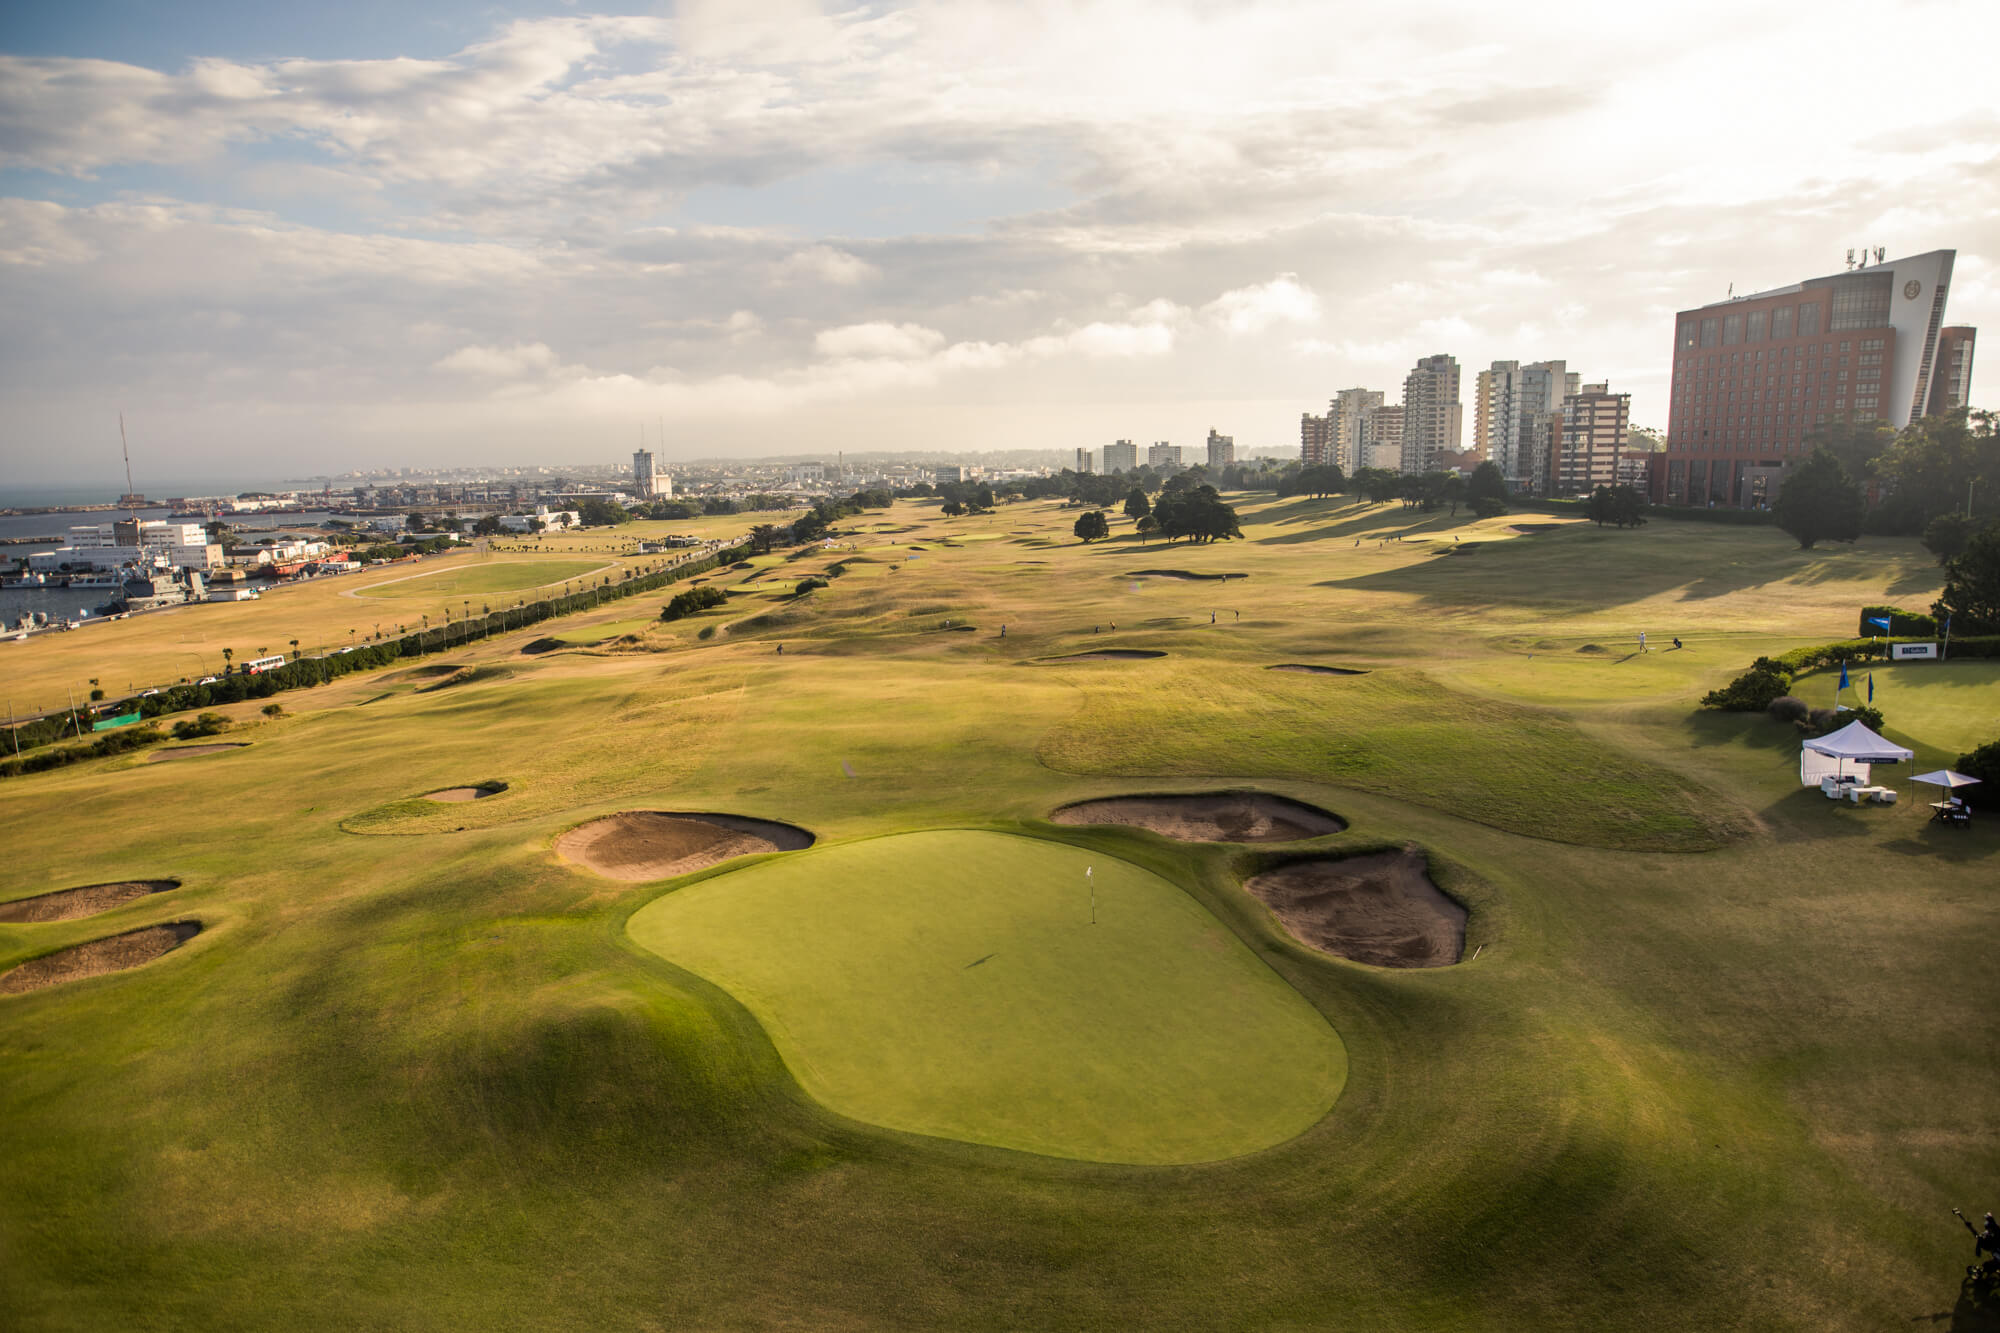
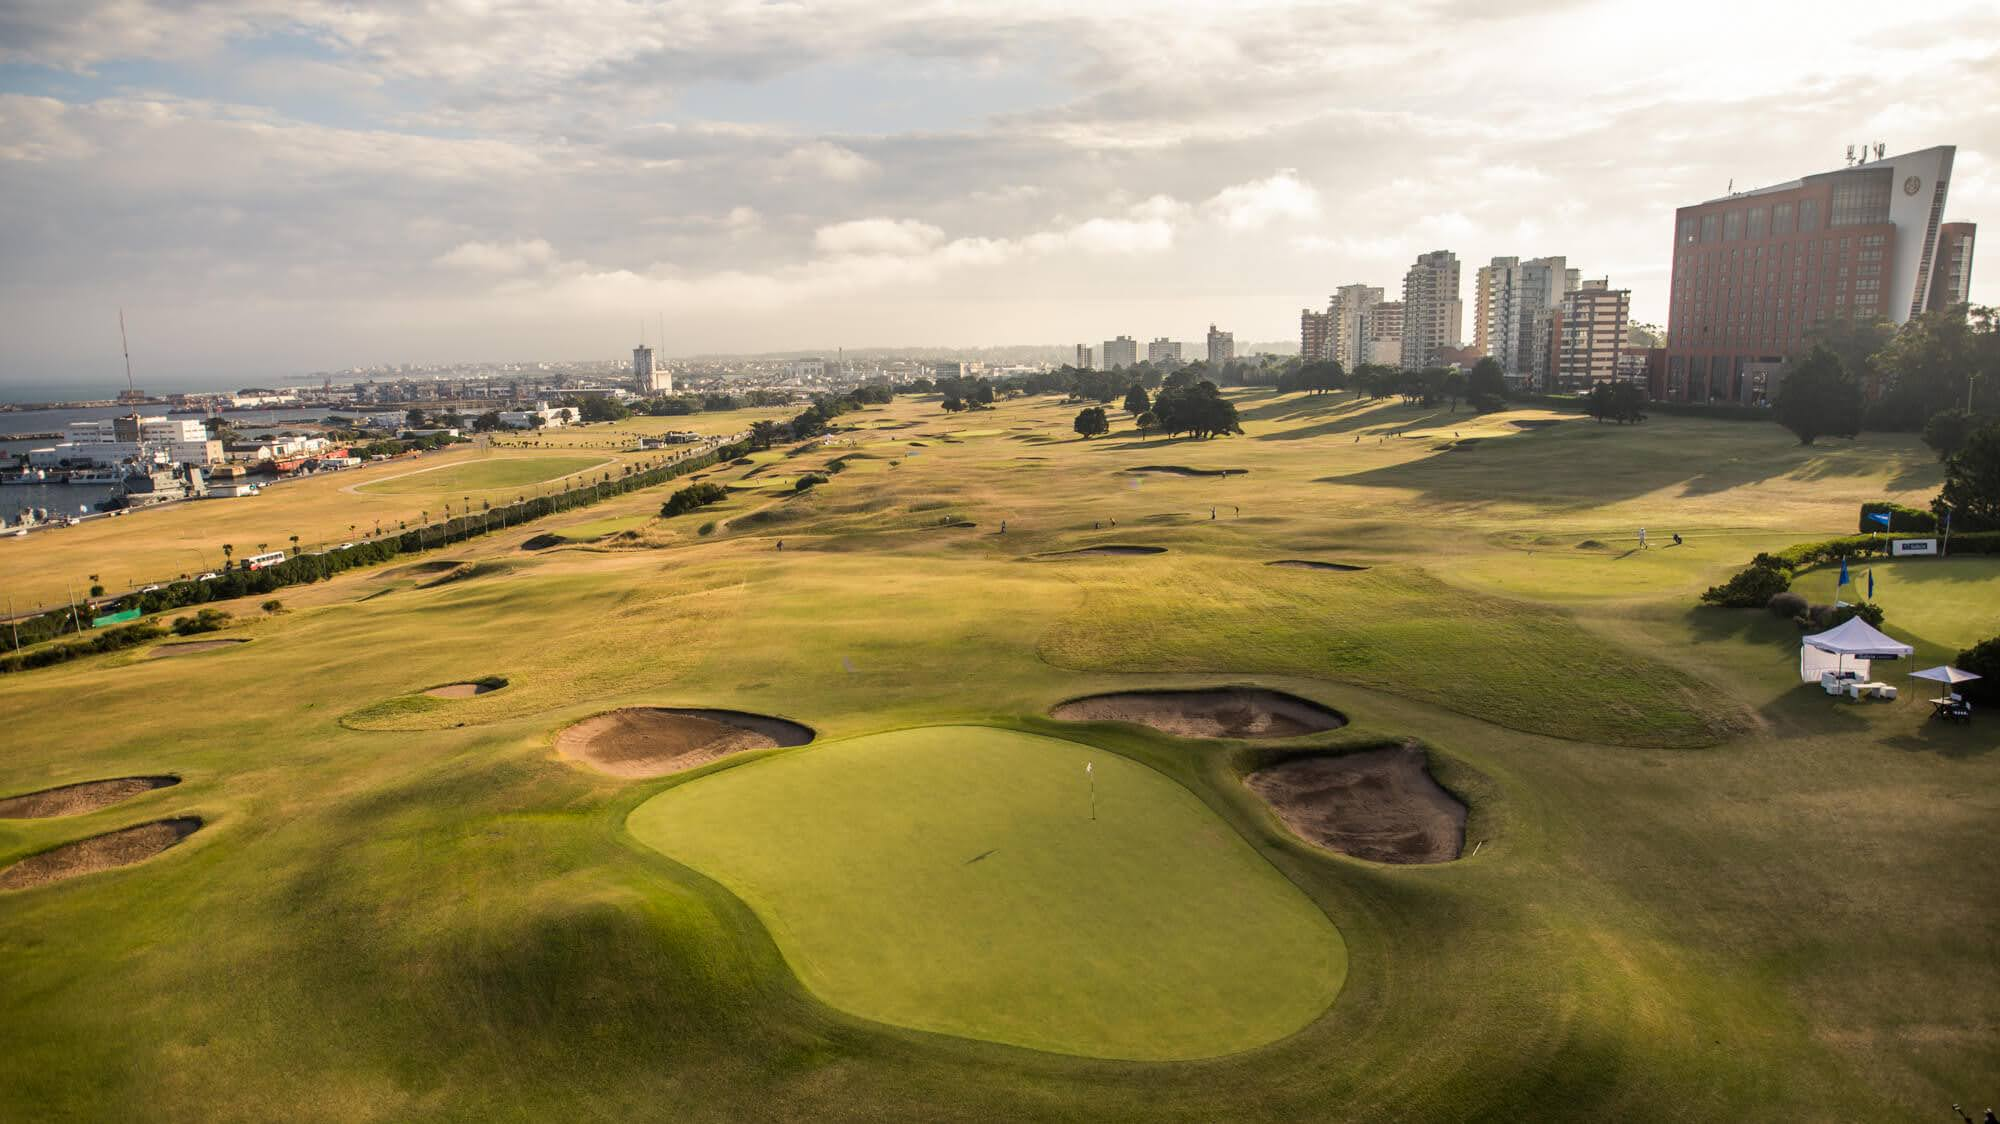
correccion galeria

diff --git a/pages/galeria.html b/pages/galeria.html
@@ -4,12 +4,13 @@
     <meta charset="UTF-8">
     <meta http-equiv="X-UA-Compatible" content="IE=edge">
     <meta name="viewport" content="width=device-width, initial-scale=1.0">
-    <link rel="shortcut icon" href="../img/istockphoto-1168291524-612x612.jpg">
+    <link rel="shortcut icon" href="../img/logo-golf-club.jpg">
     <link href="https://cdn.jsdelivr.net/npm/bootstrap@5.3.0-alpha3/dist/css/bootstrap.min.css" rel="stylesheet" 
     integrity="sha384-KK94CHFLLe+nY2dmCWGMq91rCGa5gtU4mk92HdvYe+M/SXH301p5ILy+dN9+nJOZ" crossorigin="anonymous">
     <link rel="stylesheet" href="../css/style.css">
     <link rel="stylesheet" href="https://cdnjs.cloudflare.com/ajax/libs/font-awesome/6.2.1/css/all.min.css">
     <title>Galeria</title>
+
 </head>
 
 <body>
@@ -84,7 +85,7 @@
             </div>
         </div>
         <div class="carousel-item">
-            <img src="../img/Header-Golf.png" class="d-block w-100" alt="Nordelta Golf Club">
+            <img src="../img/nordelta1.jpg" class="d-block w-100" alt="Nordelta Golf Club">
             <div class="carousel-caption d-none d-md-block">
             <h3>Nordelta Golf Club - Bs as</h3>
             <p>Desafiante y moderno par 72 de 7.278 yardas cuenta con todas las características típicas de un diseño de Jack Nicklaus.</p>
@@ -109,6 +110,7 @@
     </div>
 
     <hr>
+
     <footer class="footer">
 
         <div class="container">

diff --git a/pages/contacto.html b/pages/contacto.html
@@ -4,7 +4,7 @@
     <meta charset="UTF-8">
     <meta http-equiv="X-UA-Compatible" content="IE=edge">
     <meta name="viewport" content="width=device-width, initial-scale=1.0">
-    <link rel="shortcut icon" href="../img/istockphoto-1168291524-612x612.jpg">
+    <link rel="shortcut icon" href="../img/logo-golf-club.jpg">
     <link href="https://cdn.jsdelivr.net/npm/bootstrap@5.3.0-alpha3/dist/css/bootstrap.min.css" rel="stylesheet" 
     integrity="sha384-KK94CHFLLe+nY2dmCWGMq91rCGa5gtU4mk92HdvYe+M/SXH301p5ILy+dN9+nJOZ" crossorigin="anonymous">
     <link rel="stylesheet" href="https://cdnjs.cloudflare.com/ajax/libs/font-awesome/6.2.1/css/all.min.css">

diff --git a/pages/productos.html b/pages/productos.html
@@ -4,7 +4,7 @@
     <meta charset="UTF-8">
     <meta http-equiv="X-UA-Compatible" content="IE=edge">
     <meta name="viewport" content="width=device-width, initial-scale=1.0">
-    <link rel="shortcut icon" href="../img/istockphoto-1168291524-612x612.jpg">
+    <link rel="shortcut icon" href="../img/logo-golf-club.jpg">
     <link href="https://cdn.jsdelivr.net/npm/bootstrap@5.3.0-alpha3/dist/css/bootstrap.min.css" rel="stylesheet" 
     integrity="sha384-KK94CHFLLe+nY2dmCWGMq91rCGa5gtU4mk92HdvYe+M/SXH301p5ILy+dN9+nJOZ" crossorigin="anonymous">
     <link rel="stylesheet" href="https://cdnjs.cloudflare.com/ajax/libs/font-awesome/6.2.1/css/all.min.css">

diff --git a/pages/ubicacion.html b/pages/ubicacion.html
@@ -4,7 +4,7 @@
     <meta charset="UTF-8">
     <meta http-equiv="X-UA-Compatible" content="IE=edge">
     <meta name="viewport" content="width=device-width, initial-scale=1.0">
-    <link rel="shortcut icon" href="../img/istockphoto-1168291524-612x612.jpg">
+    <link rel="shortcut icon" href="../img/logo-golf-club.jpg">
     <link href="https://cdn.jsdelivr.net/npm/bootstrap@5.3.0-alpha3/dist/css/bootstrap.min.css" rel="stylesheet" 
     integrity="sha384-KK94CHFLLe+nY2dmCWGMq91rCGa5gtU4mk92HdvYe+M/SXH301p5ILy+dN9+nJOZ" crossorigin="anonymous">
     <link rel="stylesheet" href="../css/style.css">

diff --git a/index.html b/index.html
@@ -7,7 +7,7 @@
     integrity="sha384-KK94CHFLLe+nY2dmCWGMq91rCGa5gtU4mk92HdvYe+M/SXH301p5ILy+dN9+nJOZ" crossorigin="anonymous">
     <link rel="stylesheet" href="css/style.css">
     <link rel="stylesheet" href="https://cdnjs.cloudflare.com/ajax/libs/font-awesome/6.2.1/css/all.min.css">
-    <link rel="shortcut icon" href="img/istockphoto-1168291524-612x612.jpg">
+    <link rel="shortcut icon" href="img/logo-golf-club.jpg">
     
     <title>Golf Club</title>
 

diff --git a/css/style.css b/css/style.css
@@ -330,6 +330,7 @@ body::before {
     
     
     #carouselExampleCaptions {
+        height: 60%;
         width: 60%;
         margin: 0 auto;
     }
